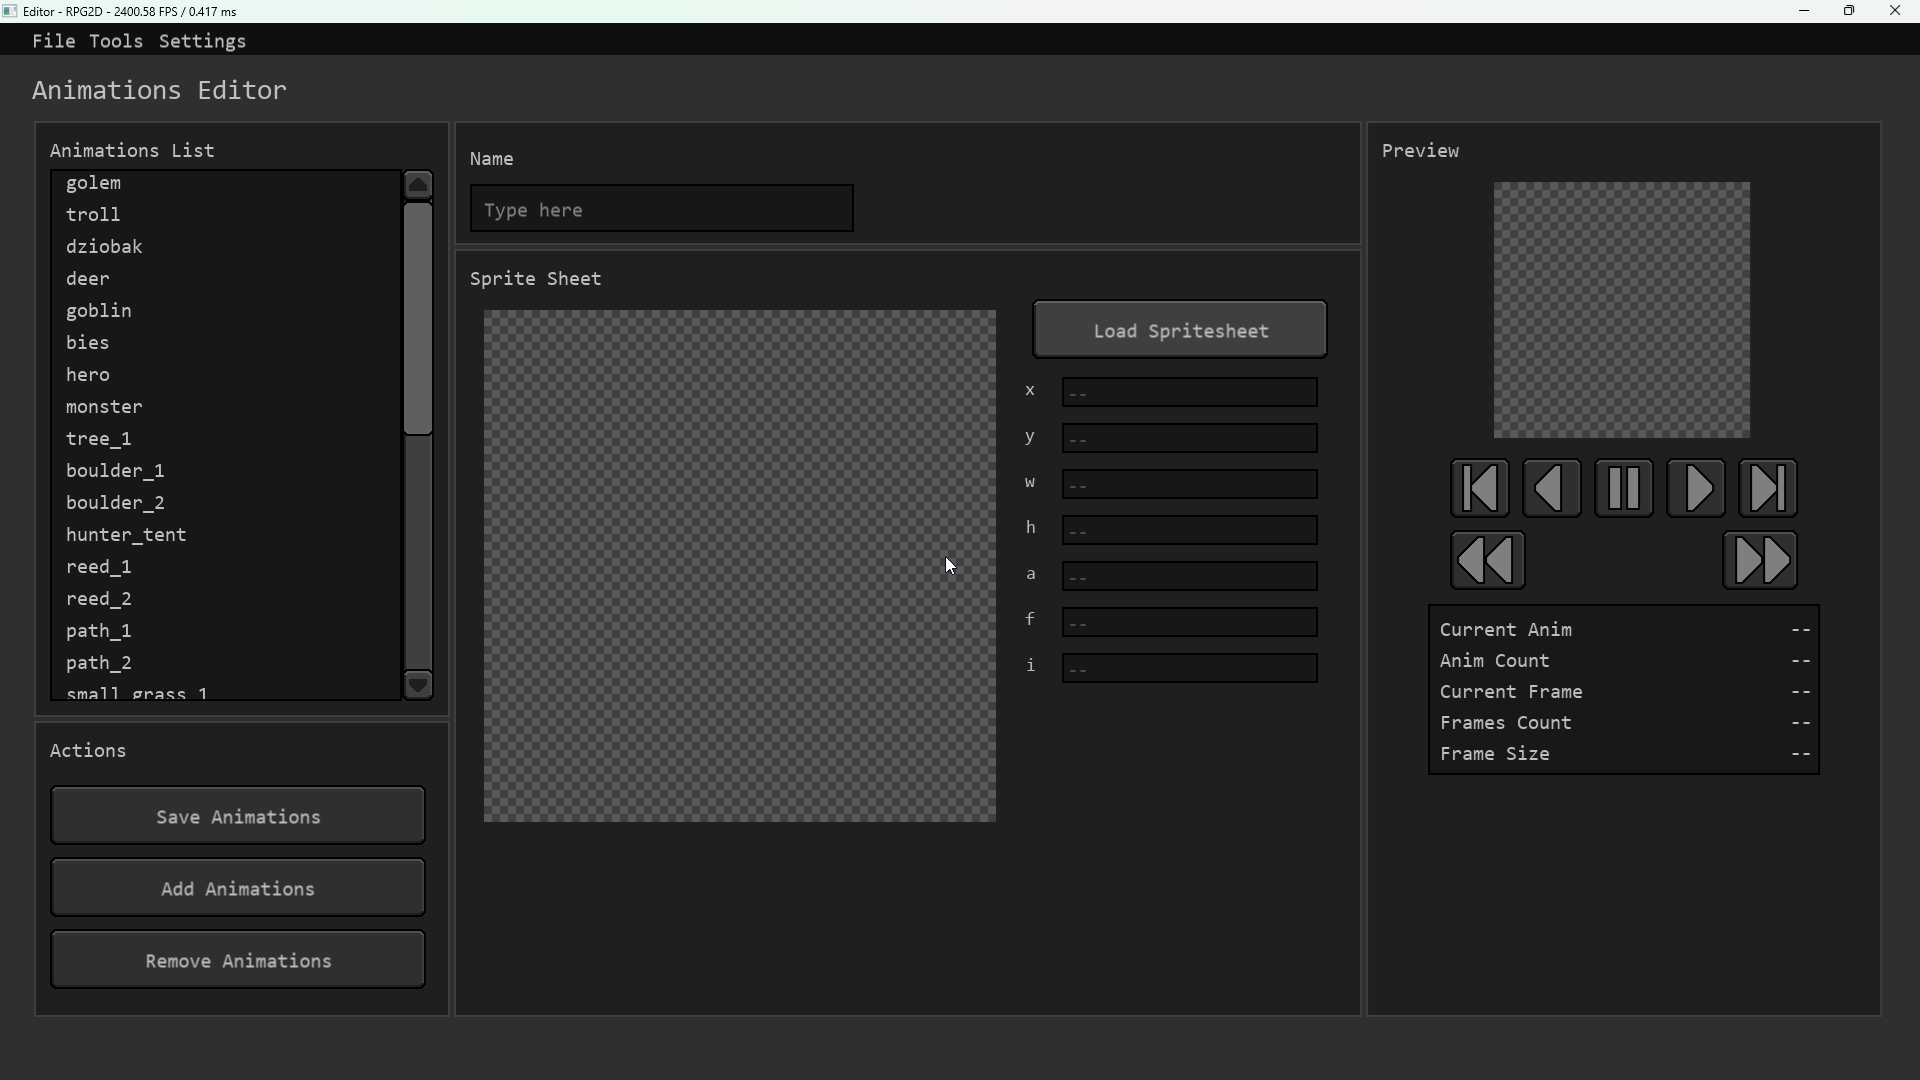
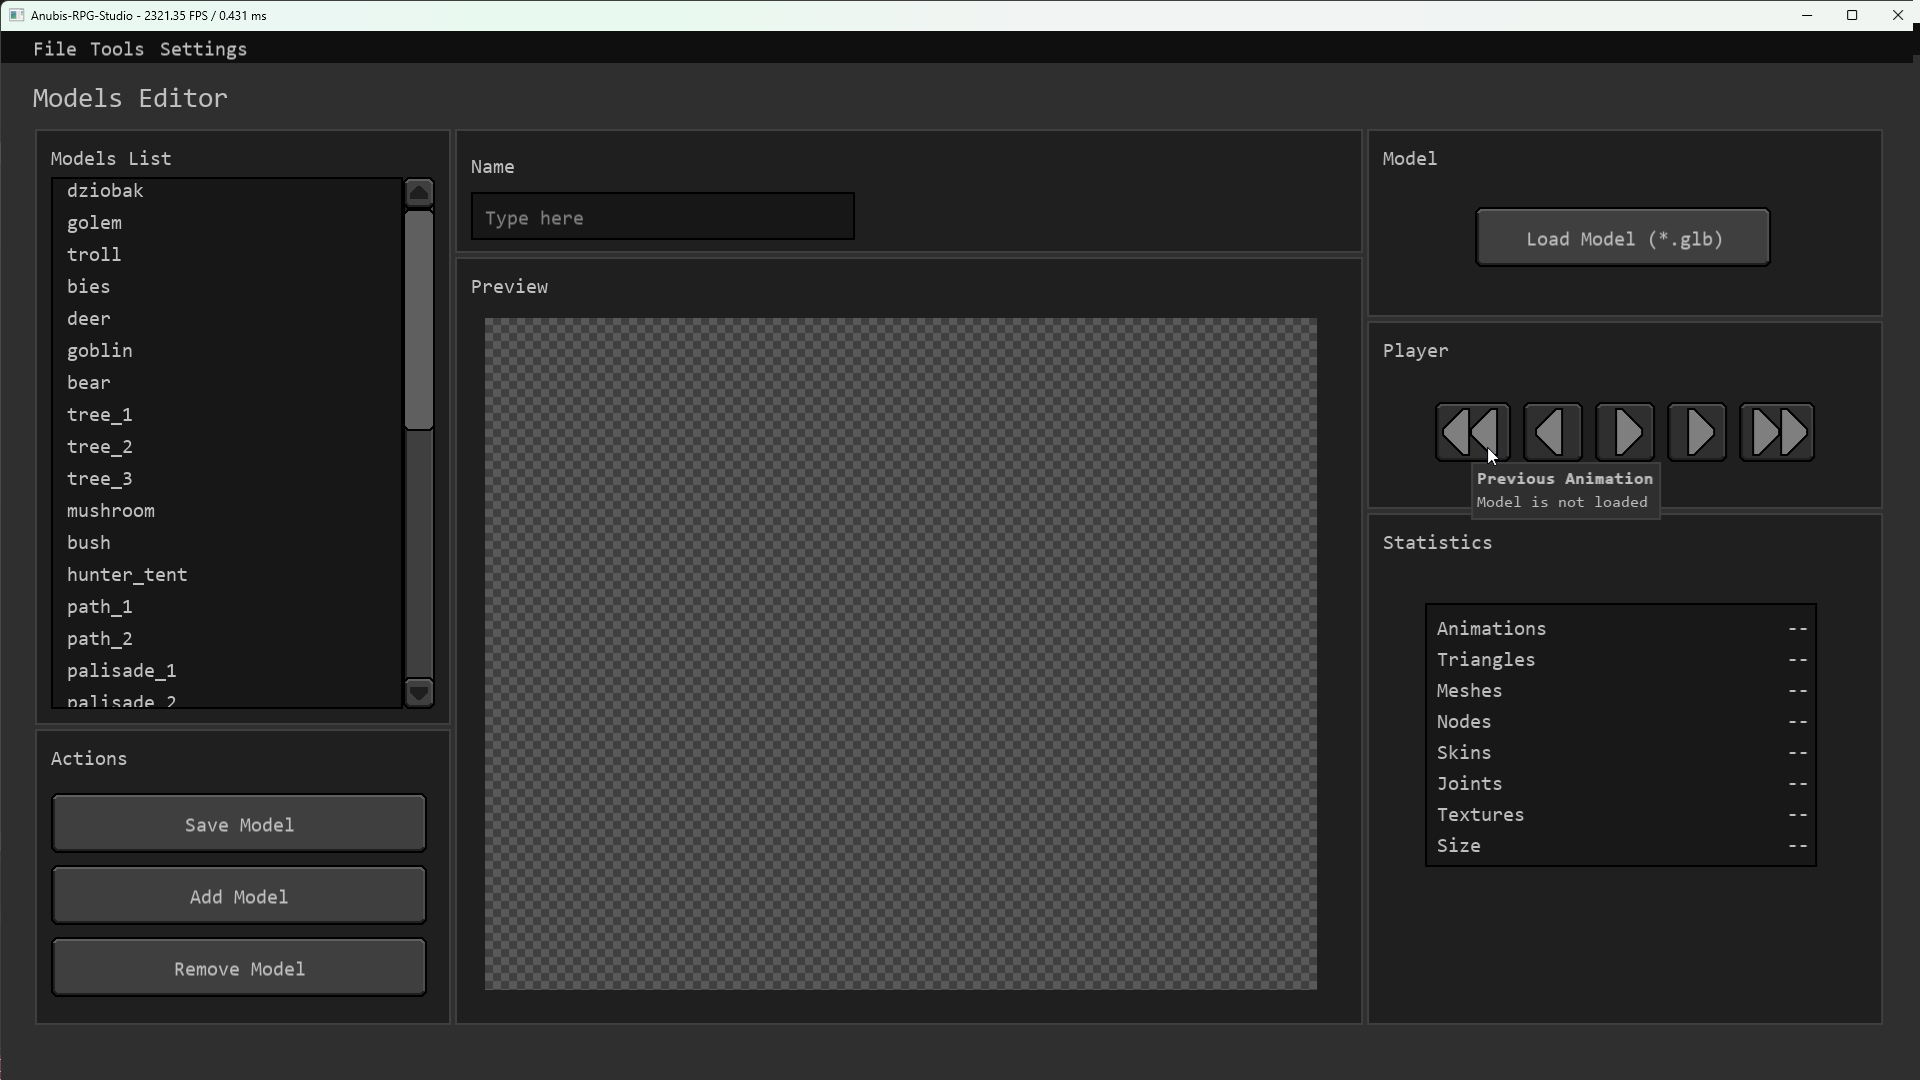
Refactor - Tooltips, Activity For PlayerButtons And Load Statistics In ModelsEditor

Changed region(s): [[0.0, 0.0, 1.0, 0.9472], [0.75, 0.5806, 0.8125, 0.7944], [0.7188, 0.1222, 0.75, 0.1528]]

diff --git a/Anubis-RPG-Studio/src/Editors/ModelsEditor/PlayerPanel.cpp b/Anubis-RPG-Studio/src/Editors/ModelsEditor/PlayerPanel.cpp
@@ -131,12 +131,20 @@ namespace ModelsEditor {
 			_anim_prev->setActive(false);
 			_anim_next->setActive(false);
 		}
-		
-		_prev->setActive(true);
-		_play->setActive(true);
-		_pause->setActive(true);
-		_next->setActive(true);
-		
+	
+		if (ModelsEditor::editor->_preview_panel->_model && !ModelsEditor::editor->_preview_panel->_model->_animations.empty()) {
+			_prev->setActive(true);
+			_play->setActive(true);
+			_pause->setActive(true);
+			_next->setActive(true);
+		}
+		else {
+			_prev->setActive(false);
+			_play->setActive(false);
+			_pause->setActive(false);
+			_next->setActive(false);
+		}
+
 	}
 
 	void PlayerPanel::setTooltips() {
@@ -158,11 +166,25 @@ namespace ModelsEditor {
 			_anim_next->setTooltip(256, L"Next Animation", L"Set the next Animation");
 		}
 
+		if (!ModelsEditor::editor->_preview_panel->_model) {
+			_prev->setTooltip(256, L"- 0.1s", L"Model is not loaded");
+			_play->setTooltip(256, L"Play Animation", L"Model is not loaded");
+			_pause->setTooltip(256, L"Pause Animation", L"Model is not loaded");
+			_next->setTooltip(256, L"+ 0.1s", L"Model is not loaded");
+		}
+		else if (ModelsEditor::editor->_preview_panel->_model->_animations.empty()) {
+			_prev->setTooltip(256, L"- 0.1s", L"Model has no animations");
+			_play->setTooltip(256, L"Play Animation", L"Model has no animations");
+			_pause->setTooltip(256, L"Pause Animation", L"Model has no animations");
+			_next->setTooltip(256, L"+ 0.1s", L"Model has no animations");
+		}  
+		else {
+			_prev->setTooltip(256, L"- 0.1s", L"");
+			_play->setTooltip(256, L"Play Animation", L"");
+			_pause->setTooltip(256, L"Pause Animation", L"");
+			_next->setTooltip(256, L"+ 0.1s", L"");
+		}
 		
-		_prev->setTooltip(256, L"- 0.1s", L"");
-		_play->setTooltip(256, L"Play Animation", L"");
-		_pause->setTooltip(256, L"Pause Animation", L"");
-		_next->setTooltip(256, L"+ 0.1s", L"");
 		
 	}
 
@@ -177,8 +199,7 @@ namespace ModelsEditor {
 		bool hasAnimations = modelExists && !ModelsEditor::editor->_preview_panel->_model->_animations.empty();
 		bool activeAnimation = hasAnimations && ModelsEditor::editor->_preview_panel->_model->_player._index != -1;
 		bool isStoped = activeAnimation && ModelsEditor::editor->_preview_panel->_model->_isAnimating == false;
-
-		(isStoped) ? _play->cursorHover() : _pause->cursorHover();
+		(!modelExists || !hasAnimations || isStoped) ? _play->cursorHover() : _pause->cursorHover();
 		
 		_next->cursorHover();
 		_anim_next->cursorHover();
@@ -197,7 +218,7 @@ namespace ModelsEditor {
 		bool activeAnimation = hasAnimations && ModelsEditor::editor->_preview_panel->_model->_player._index != -1;
 		bool isStoped = activeAnimation && ModelsEditor::editor->_preview_panel->_model->_isAnimating == false;
 
-		(isStoped) ? _play->handleEvent(event) : _pause->handleEvent(event);
+		(!modelExists || !hasAnimations || isStoped) ? _play->handleEvent(event) : _pause->handleEvent(event);
 
 		_next->handleEvent(event);
 		_anim_next->handleEvent(event);
@@ -233,7 +254,7 @@ namespace ModelsEditor {
 		bool activeAnimation = hasAnimations && ModelsEditor::editor->_preview_panel->_model->_player._index != -1;
 		bool isStoped = activeAnimation && ModelsEditor::editor->_preview_panel->_model->_isAnimating == false;
 		
-		(isStoped) ? _play->draw() : _pause->draw();
+		(!modelExists || !hasAnimations || isStoped) ? _play->draw() : _pause->draw();
 
 		_next->draw();
 		_anim_next->draw();

diff --git a/Anubis-RPG-Studio/src/Editors/ModelsEditor/StatisticsPanel.cpp b/Anubis-RPG-Studio/src/Editors/ModelsEditor/StatisticsPanel.cpp
@@ -63,14 +63,14 @@ namespace ModelsEditor {
 		_textures->setFillColor(basic_text_color);
 		_size->setFillColor(basic_text_color);
 
-		loadModel();
+		loadModel(nullptr);
 	}
 
 	StatisticsPanel::~StatisticsPanel() {
 
 	}
 
-	void StatisticsPanel::loadModel() {
+	void StatisticsPanel::loadModel(std::shared_ptr<Anubis::Model3D> model) {
 
 		_animations->setString(L"--");
 		_triangles->setString(L"--");
@@ -92,9 +92,7 @@ namespace ModelsEditor {
 		_textures->setPosition(sf::Vector2f(s - _textures->getGlobalBounds().size.x - m, _statsRect.position.y + m + 6 * (basicFont.getLineSpacing(basic_text_size) + m)));
 		_size->setPosition(sf::Vector2f(s - _size->getGlobalBounds().size.x - m, _statsRect.position.y + m + 7 * (basicFont.getLineSpacing(basic_text_size) + m)));
 
-		if (ModelsEditor::editor && ModelsEditor::editor->_preview_panel && ModelsEditor::editor->_preview_panel->_model) {
-
-			std::shared_ptr<Anubis::Model3D> model = ModelsEditor::editor->_preview_panel->_model;
+		if (ModelsEditor::editor && ModelsEditor::editor->_preview_panel && model) {
 
 			int triangles = 0;
 			std::vector<std::shared_ptr<Texture>> textures;

diff --git a/Anubis-RPG-Studio/src/Editors/ModelsEditor/ModelsListPanel.cpp b/Anubis-RPG-Studio/src/Editors/ModelsEditor/ModelsListPanel.cpp
@@ -31,7 +31,11 @@ namespace ModelsEditor {
 				_items[i]->setName(Anubis::models_manager->_models[index]->_name);
 				_items[i]->_onclick_func = [this, index]() { 
 					selectItem(index); 
-					ModelsEditor::editor->_preview_panel->loadModel(Anubis::models_manager->_models[index]);
+					std::shared_ptr<Anubis::Model3D> model = Anubis::models_manager->_models[index];
+					ModelsEditor::editor->_preview_panel->loadModel(model);
+					ModelsEditor::editor->_player_panel->setButtonsActivity();
+					ModelsEditor::editor->_player_panel->setTooltips();
+					ModelsEditor::editor->_statistics_panel->loadModel(model);
 					};
 			}
 			else {

diff --git a/Anubis-RPG-Studio/include/Editors/ModelsEditor/StatisticsPanel.hpp b/Anubis-RPG-Studio/include/Editors/ModelsEditor/StatisticsPanel.hpp
@@ -2,6 +2,7 @@
 #include "Components/Panel.hpp"
 #include "Controls/TextInput.hpp"
 #include "Controls/ButtonWithTextAndSprite.hpp"
+#include "3D/Model3D.hpp"
 
 namespace ModelsEditor {
 	class StatisticsPanel : public Components::Panel {
@@ -31,7 +32,7 @@ namespace ModelsEditor {
 		StatisticsPanel(sf::Vector2i margin);
 		~StatisticsPanel();
 
-		void loadModel();
+		void loadModel(std::shared_ptr<Anubis::Model3D> model);
 
 		void cursorHover();
 		void handleEvent(const sf::Event& event);
